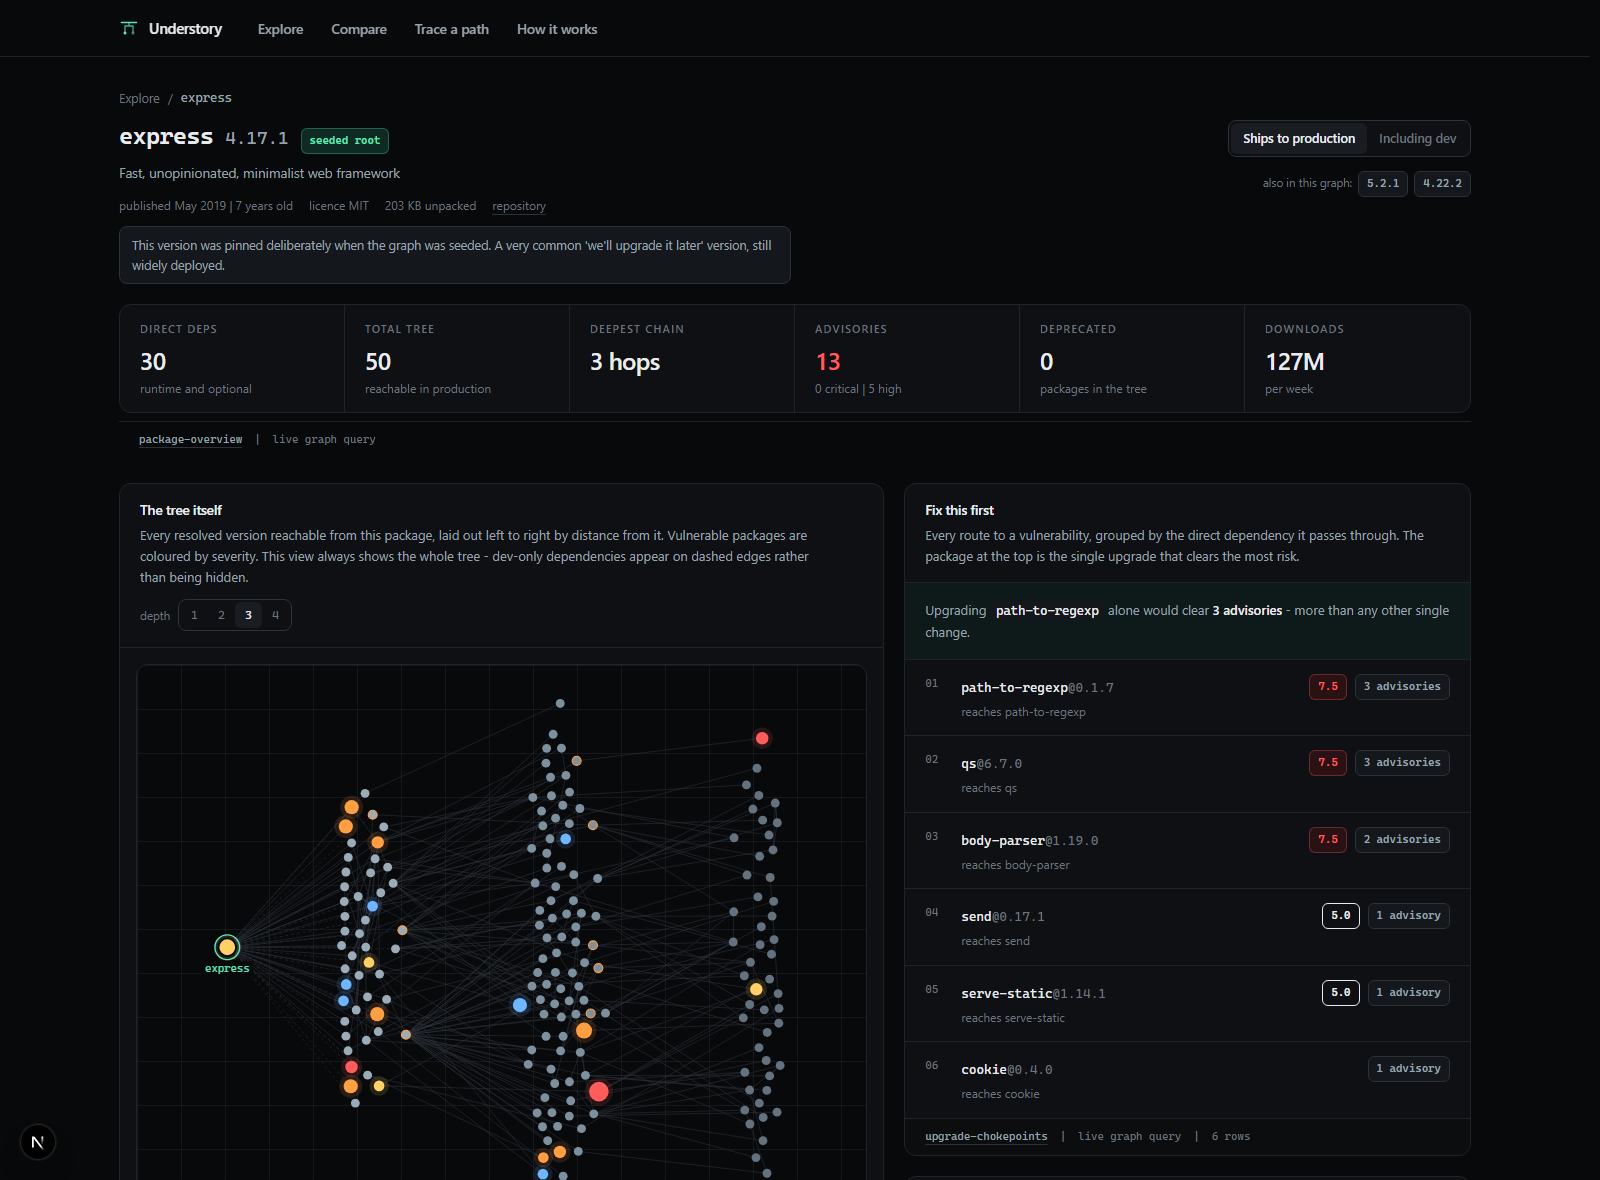
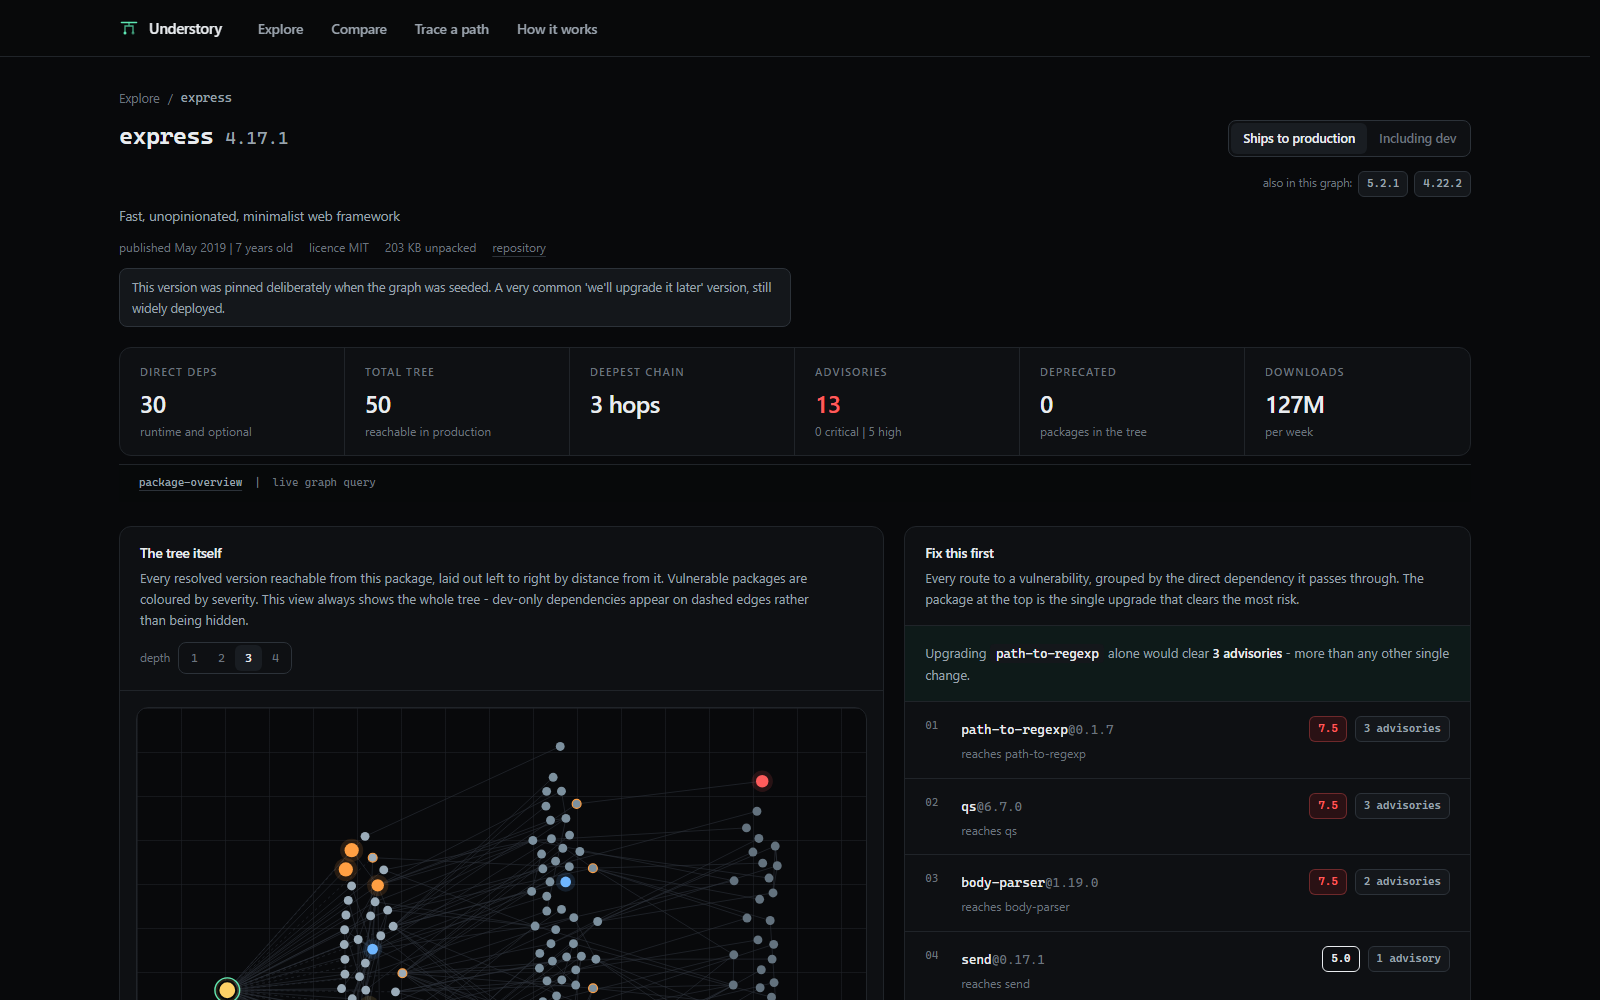
Make the scope toggle visibly respond
Clicking "Including dev" appeared to do nothing. The server was always correct -
13 advisories in production scope against 52 with dev included, no caching
anywhere - but the page did not move for several seconds and then swapped
silently, which reads as a broken control.

Two causes, both in how the page was composed.

Suspense boundaries had no keys, so a navigation that only changed a search
parameter was treated as an update to the existing boundary. React deliberately
keeps the previous content on screen during an update rather than flashing a
fallback, which is usually right, but here the query behind the switch takes
several seconds on the free tier, so nothing on screen changed at all. The
boundaries are now keyed on the inputs their panel depends on, so the skeleton
appears the moment the link is clicked.

That alone made it worse: the toggle lives in the header, so keying the header
boundary meant the control vanished behind a skeleton as soon as it was pressed.
Identity and both filters now render synchronously in the page component, since
they depend only on the URL and the version list already resolved there. The
control stays put, updates its own active state immediately, and the panels
beneath it reload underneath.

Verified in a production build: production scope shows 13 advisories, 30 direct
dependencies and a 3-hop tree; including dev shows 52, 48 and 5 hops, and the
top recommendation changes from path-to-regexp to hbs.

diff --git a/src/app/package/[...name]/page.tsx b/src/app/package/[...name]/page.tsx
@@ -136,28 +136,65 @@ export default async function PackagePage({ params, searchParams }: PageProps) {
 
   return (
     <div className="mx-auto max-w-[1400px] px-6 py-8">
-      <Suspense fallback={<HeaderSkeleton name={name} version={resolved.version} />}>
-        <PackageHeader
-          rootKey={key}
-          name={name}
-          availableVersions={resolved.available}
-          current={base}
-        />
+      {/*
+        Every Suspense boundary is keyed on the inputs its panel depends on.
+        Without a key, React treats a navigation to the same route with different
+        search parameters as an update to the existing boundary, and an update
+        deliberately keeps the previous content on screen until the replacement
+        is ready rather than flashing a fallback. That is usually the behaviour
+        you want, but here the production/dev switch changes a query that takes
+        several seconds on the free tier, so the page sat completely still and
+        looked broken.
+
+        Keying forces a remount, so the skeleton appears the instant the link is
+        clicked and the panel visibly reloads. The cost is losing the old content
+        during the swap, which is the correct trade when the numbers on screen no
+        longer match the filter the user just chose.
+      */}
+      {/*
+        Identity and controls render synchronously, outside every Suspense
+        boundary. They depend only on values the page already has, and putting
+        them inside the boundary meant the scope toggle vanished behind a
+        skeleton the moment it was clicked - the control disappearing is a worse
+        experience than the stale numbers it was meant to fix.
+      */}
+      <PageIdentity
+        name={name}
+        version={resolved.version}
+        availableVersions={resolved.available}
+        isRoot={record.rootVersion !== null}
+        current={base}
+      />
+
+      <Suspense
+        key={`header-${key}-${scope}`}
+        fallback={<HeaderSkeleton />}
+      >
+        <PackageHeader rootKey={key} current={base} />
       </Suspense>
 
       <div className="mt-6 grid gap-5 lg:grid-cols-[minmax(0,1.35fr)_minmax(0,1fr)]">
         <div className="space-y-5">
-          <Suspense fallback={<PanelSkeleton title="Dependency graph" rows={6} />}>
+          <Suspense
+            key={`graph-${key}-${depth}`}
+            fallback={<PanelSkeleton title="The tree itself" rows={6} />}
+          >
             <GraphPanel rootKey={key} depth={depth} current={base} />
           </Suspense>
 
-          <Suspense fallback={<PanelSkeleton title="Reachable advisories" rows={5} />}>
+          <Suspense
+            key={`vulns-${key}-${scope}`}
+            fallback={<PanelSkeleton title="Reachable advisories" rows={5} />}
+          >
             <VulnerabilitySection rootKey={key} scope={scope} />
           </Suspense>
         </div>
 
         <div className="space-y-5">
-          <Suspense fallback={<PanelSkeleton title="Fix this first" rows={4} />}>
+          <Suspense
+            key={`choke-${key}-${scope}`}
+            fallback={<PanelSkeleton title="Fix this first" rows={4} />}
+          >
             <ChokepointSection rootKey={key} scope={scope} />
           </Suspense>
 
@@ -205,15 +242,64 @@ function hrefWith(current: CurrentView, patch: Partial<CurrentView>): string {
   return `${packageHref(next.name)}?${search.toString()}`;
 }
 
+/**
+ * Breadcrumb, package identity, and the two filters.
+ *
+ * Rendered synchronously by the page. Everything here is derived from the URL
+ * and from the version list the page already resolved, so none of it needs to
+ * wait on the overview query - which means the scope toggle stays put, and
+ * visibly updates its own active state, while the panels beneath it reload.
+ */
+function PageIdentity({
+  name,
+  version,
+  availableVersions,
+  isRoot,
+  current,
+}: {
+  name: string;
+  version: string;
+  availableVersions: string[];
+  isRoot: boolean;
+  current: CurrentView;
+}) {
+  return (
+    <div>
+      <nav className="mb-3 flex items-center gap-2 text-[12.5px] text-[var(--color-ink-faint)]">
+        <Link href="/" className="transition-colors hover:text-[var(--color-ink-muted)]">
+          Explore
+        </Link>
+        <span aria-hidden>/</span>
+        <span className="font-mono text-[var(--color-ink-muted)]">{name}</span>
+      </nav>
+
+      <div className="flex flex-wrap items-start justify-between gap-5">
+        <div className="flex flex-wrap items-baseline gap-3">
+          <h1 className="font-mono text-2xl font-semibold tracking-tight">{name}</h1>
+          <span className="font-mono text-lg text-[var(--color-ink-muted)]">{version}</span>
+          {isRoot && (
+            <Badge className="border-[color-mix(in_oklab,var(--color-accent)_30%,transparent)] bg-[var(--color-accent-ghost)] text-[var(--color-accent)]">
+              seeded root
+            </Badge>
+          )}
+        </div>
+
+        <div className="flex shrink-0 flex-col items-end gap-3">
+          <ScopeToggle current={current} />
+          {availableVersions.length > 1 && (
+            <VersionPicker current={current} versions={availableVersions} active={version} />
+          )}
+        </div>
+      </div>
+    </div>
+  );
+}
+
 async function PackageHeader({
   rootKey,
-  name,
-  availableVersions,
   current,
 }: {
   rootKey: string;
-  name: string;
-  availableVersions: string[];
   current: CurrentView;
 }) {
   let overview;
@@ -248,31 +334,11 @@ async function PackageHeader({
     overview.latestVersion !== null && overview.latestVersion !== overview.version;
 
   return (
-    <header>
-      <nav className="mb-3 flex items-center gap-2 text-[12.5px] text-[var(--color-ink-faint)]">
-        <Link href="/" className="transition-colors hover:text-[var(--color-ink-muted)]">
-          Explore
-        </Link>
-        <span aria-hidden>/</span>
-        <span className="font-mono text-[var(--color-ink-muted)]">{name}</span>
-      </nav>
-
+    <header className="mt-2">
       <div className="flex flex-wrap items-start justify-between gap-5">
         <div className="min-w-0">
-          <div className="flex flex-wrap items-baseline gap-3">
-            <h1 className="font-mono text-2xl font-semibold tracking-tight">{name}</h1>
-            <span className="font-mono text-lg text-[var(--color-ink-muted)]">
-              {overview.version}
-            </span>
-            {overview.isRoot && (
-              <Badge className="border-[color-mix(in_oklab,var(--color-accent)_30%,transparent)] bg-[var(--color-accent-ghost)] text-[var(--color-accent)]">
-                seeded root
-              </Badge>
-            )}
-          </div>
-
           {overview.description !== null && (
-            <p className="mt-2 max-w-2xl text-[13.5px] leading-relaxed text-[var(--color-ink-muted)]">
+            <p className="max-w-2xl text-[13.5px] leading-relaxed text-[var(--color-ink-muted)]">
               {overview.description}
             </p>
           )}
@@ -316,16 +382,6 @@ async function PackageHeader({
           </div>
         </div>
 
-        <div className="flex shrink-0 flex-col items-end gap-3">
-          <ScopeToggle current={current} />
-          {availableVersions.length > 1 && (
-            <VersionPicker
-              current={current}
-              versions={availableVersions}
-              active={overview.version}
-            />
-          )}
-        </div>
       </div>
 
       <div className="surface-card mt-5 grid grid-cols-2 divide-[var(--color-line)] sm:grid-cols-3 lg:grid-cols-6 lg:divide-x">
@@ -448,14 +504,10 @@ function VersionPicker({
   );
 }
 
-function HeaderSkeleton({ name, version }: { name: string; version: string }) {
+function HeaderSkeleton() {
   return (
-    <div aria-busy="true">
-      <div className="flex items-baseline gap-3">
-        <h1 className="font-mono text-2xl font-semibold tracking-tight">{name}</h1>
-        <span className="font-mono text-lg text-[var(--color-ink-muted)]">{version}</span>
-      </div>
-      <div className="shimmer mt-3 h-4 w-96 rounded" />
+    <div aria-busy="true" className="mt-4">
+      <div className="shimmer h-4 w-96 rounded" />
       <div className="surface-card mt-5 grid grid-cols-2 sm:grid-cols-3 lg:grid-cols-6">
         {Array.from({ length: 6 }, (_, index) => (
           <div key={index} className="px-5 py-4">
@@ -464,6 +516,7 @@ function HeaderSkeleton({ name, version }: { name: string; version: string }) {
           </div>
         ))}
       </div>
+      <span className="sr-only">Loading package summary</span>
     </div>
   );
 }
